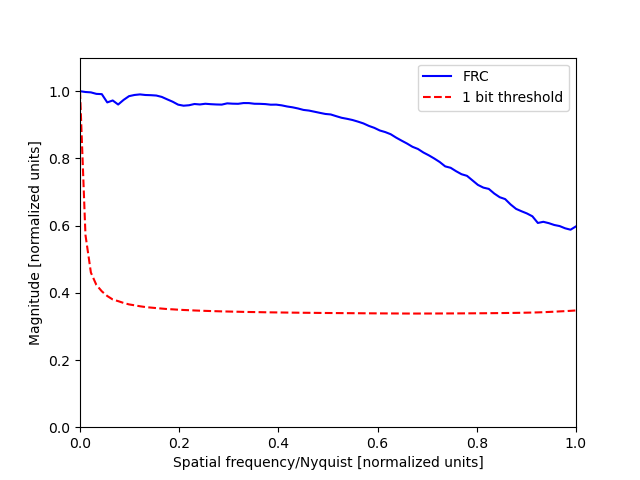
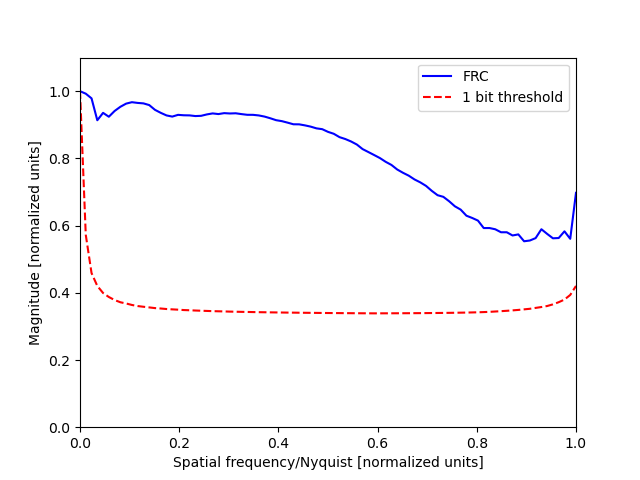
Crop volumes

diff --git a/compute_fourier_corr.py b/compute_fourier_corr.py
@@ -1,9 +1,9 @@
 from ptypy.utils.metrics import fouriershellcorrelation, fourierringcorrelation, frc_plot
 import numpy as np
 
-g_truth = np.load("/home/kpv14943/ptypy/rmap_242_glass.npy")[30:-30, 60:-60, 60:-60]
-vol_joint = np.load("/home/kpv14943/ptypy/vol_200iters_subs_half.npy")[30:-30, 60:-60, 60:-60]
-vol_conv = np.load("/home/kpv14943/ptypy/overall_vol_conv_REAL_400_subsampled_half.npy")[30:-30, 60:-60, 60:-60]
+g_truth = np.load("/home/kpv14943/ptypy/rmap_242_glass.npy")[50:-20, 70:-70, 70:-70]
+vol_joint = np.load("/home/kpv14943/ptypy/vol_200iters_subs_half.npy")[50:-20, 70:-70, 70:-70]
+vol_conv = np.load("/home/kpv14943/ptypy/overall_vol_conv_REAL_400_subsampled_half.npy")[50:-20, 70:-70, 70:-70]
 
 #FSC, T, fn = fourierringcorrelation(np.real(g_truth)[:, 100, :], np.real(vol_joint)[:, 100, :])
 FSC, T, fn = fouriershellcorrelation(np.real(g_truth), np.real(vol_joint))
